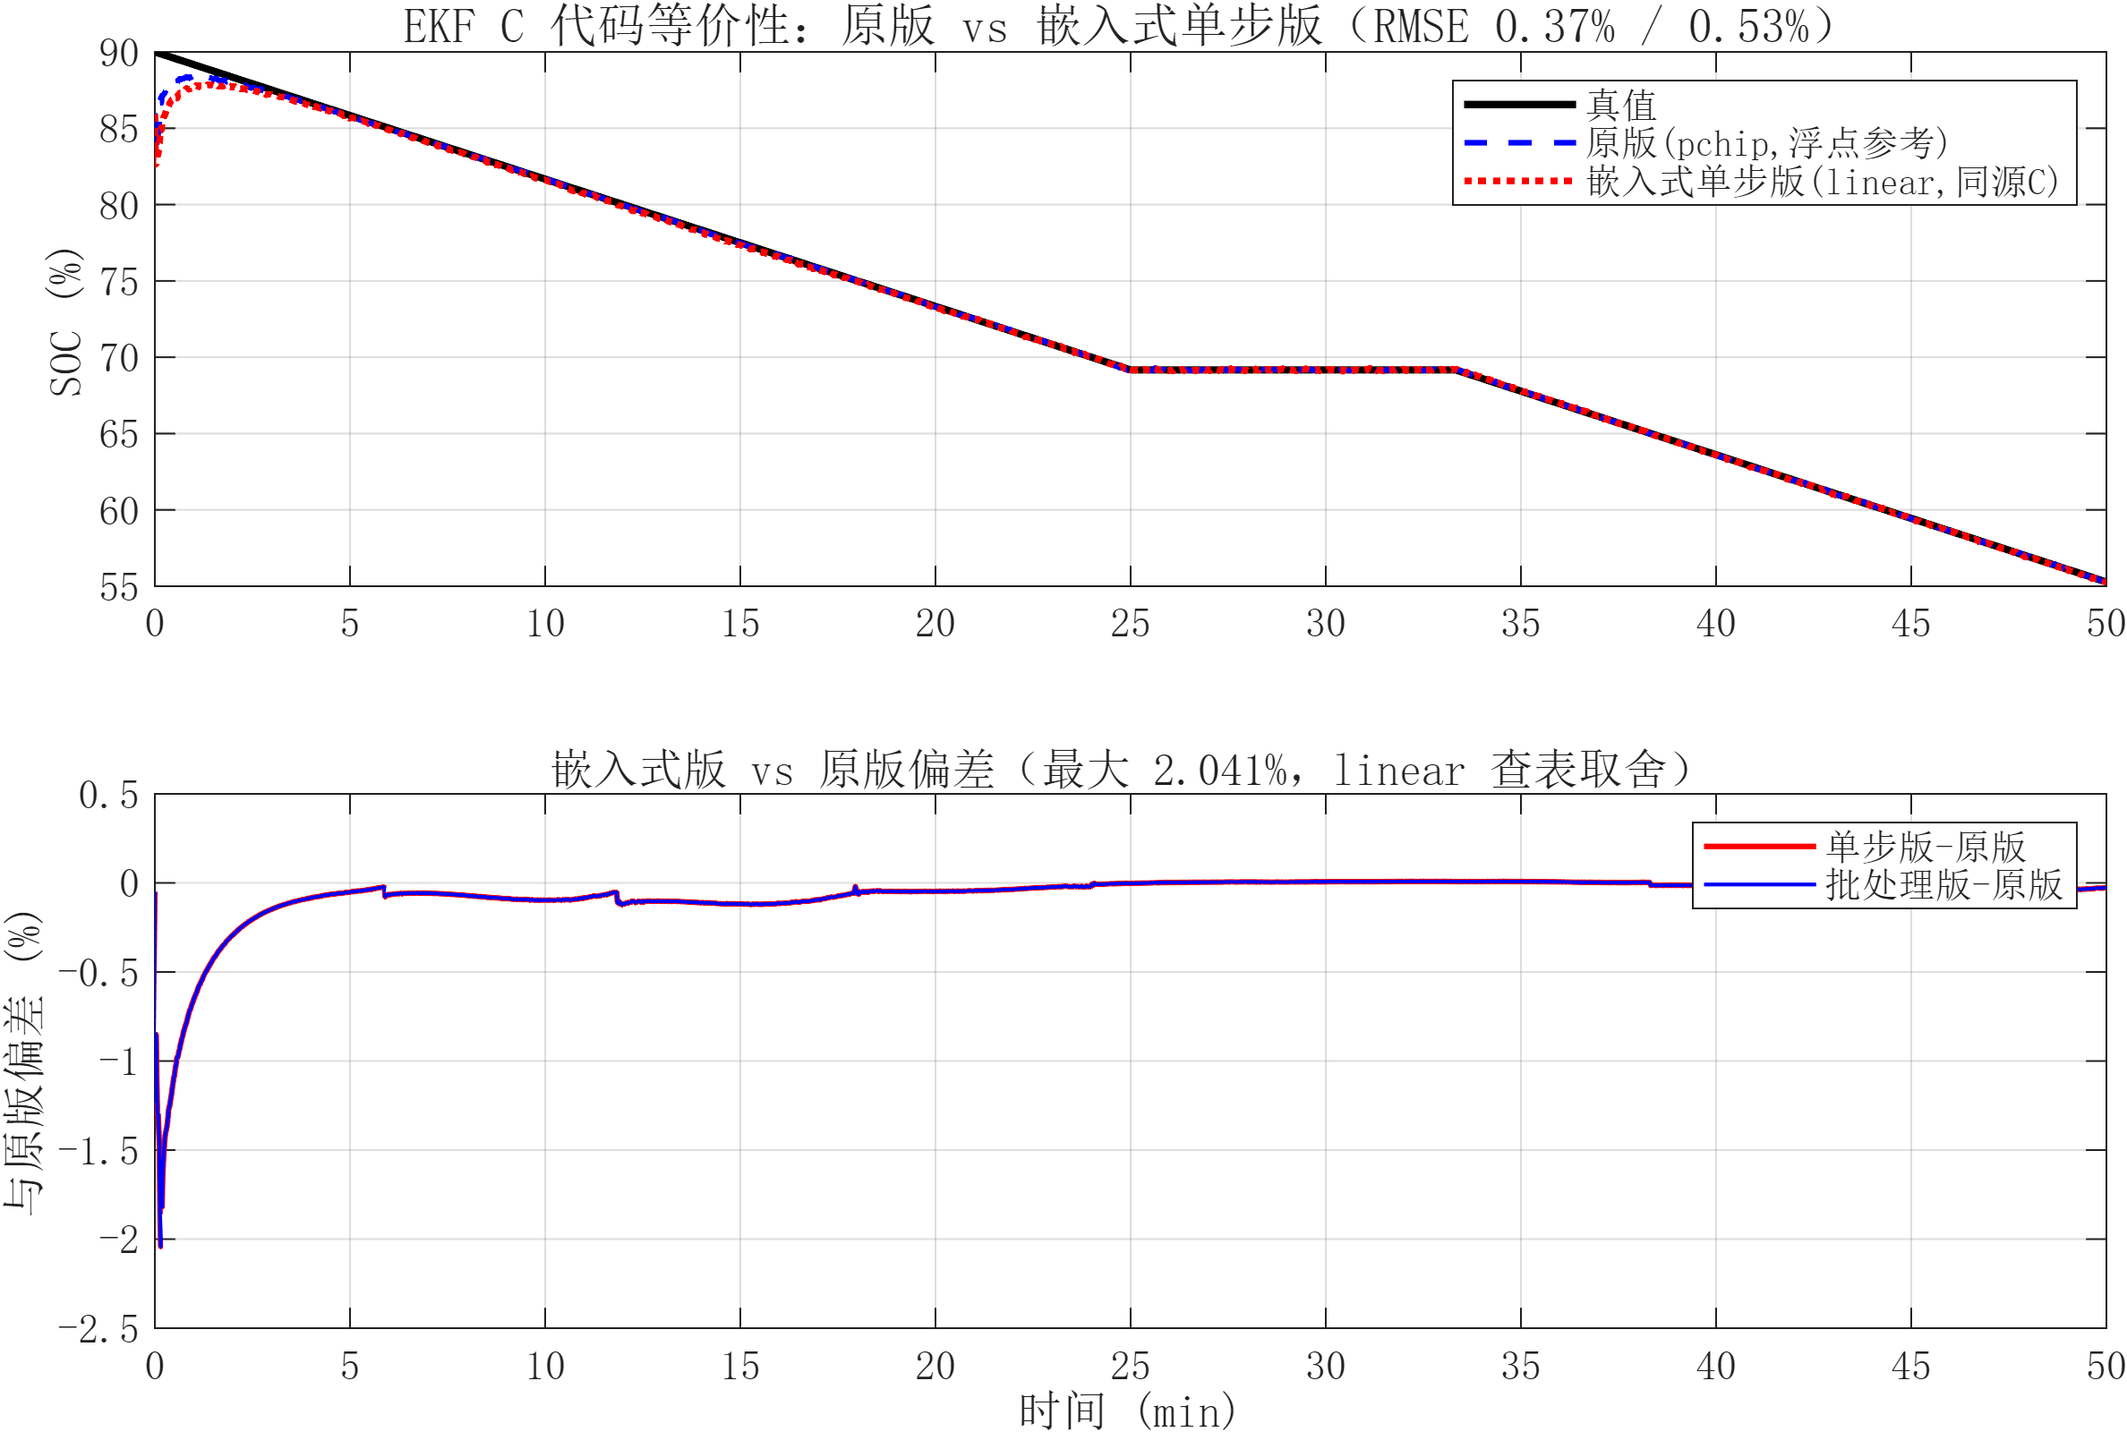
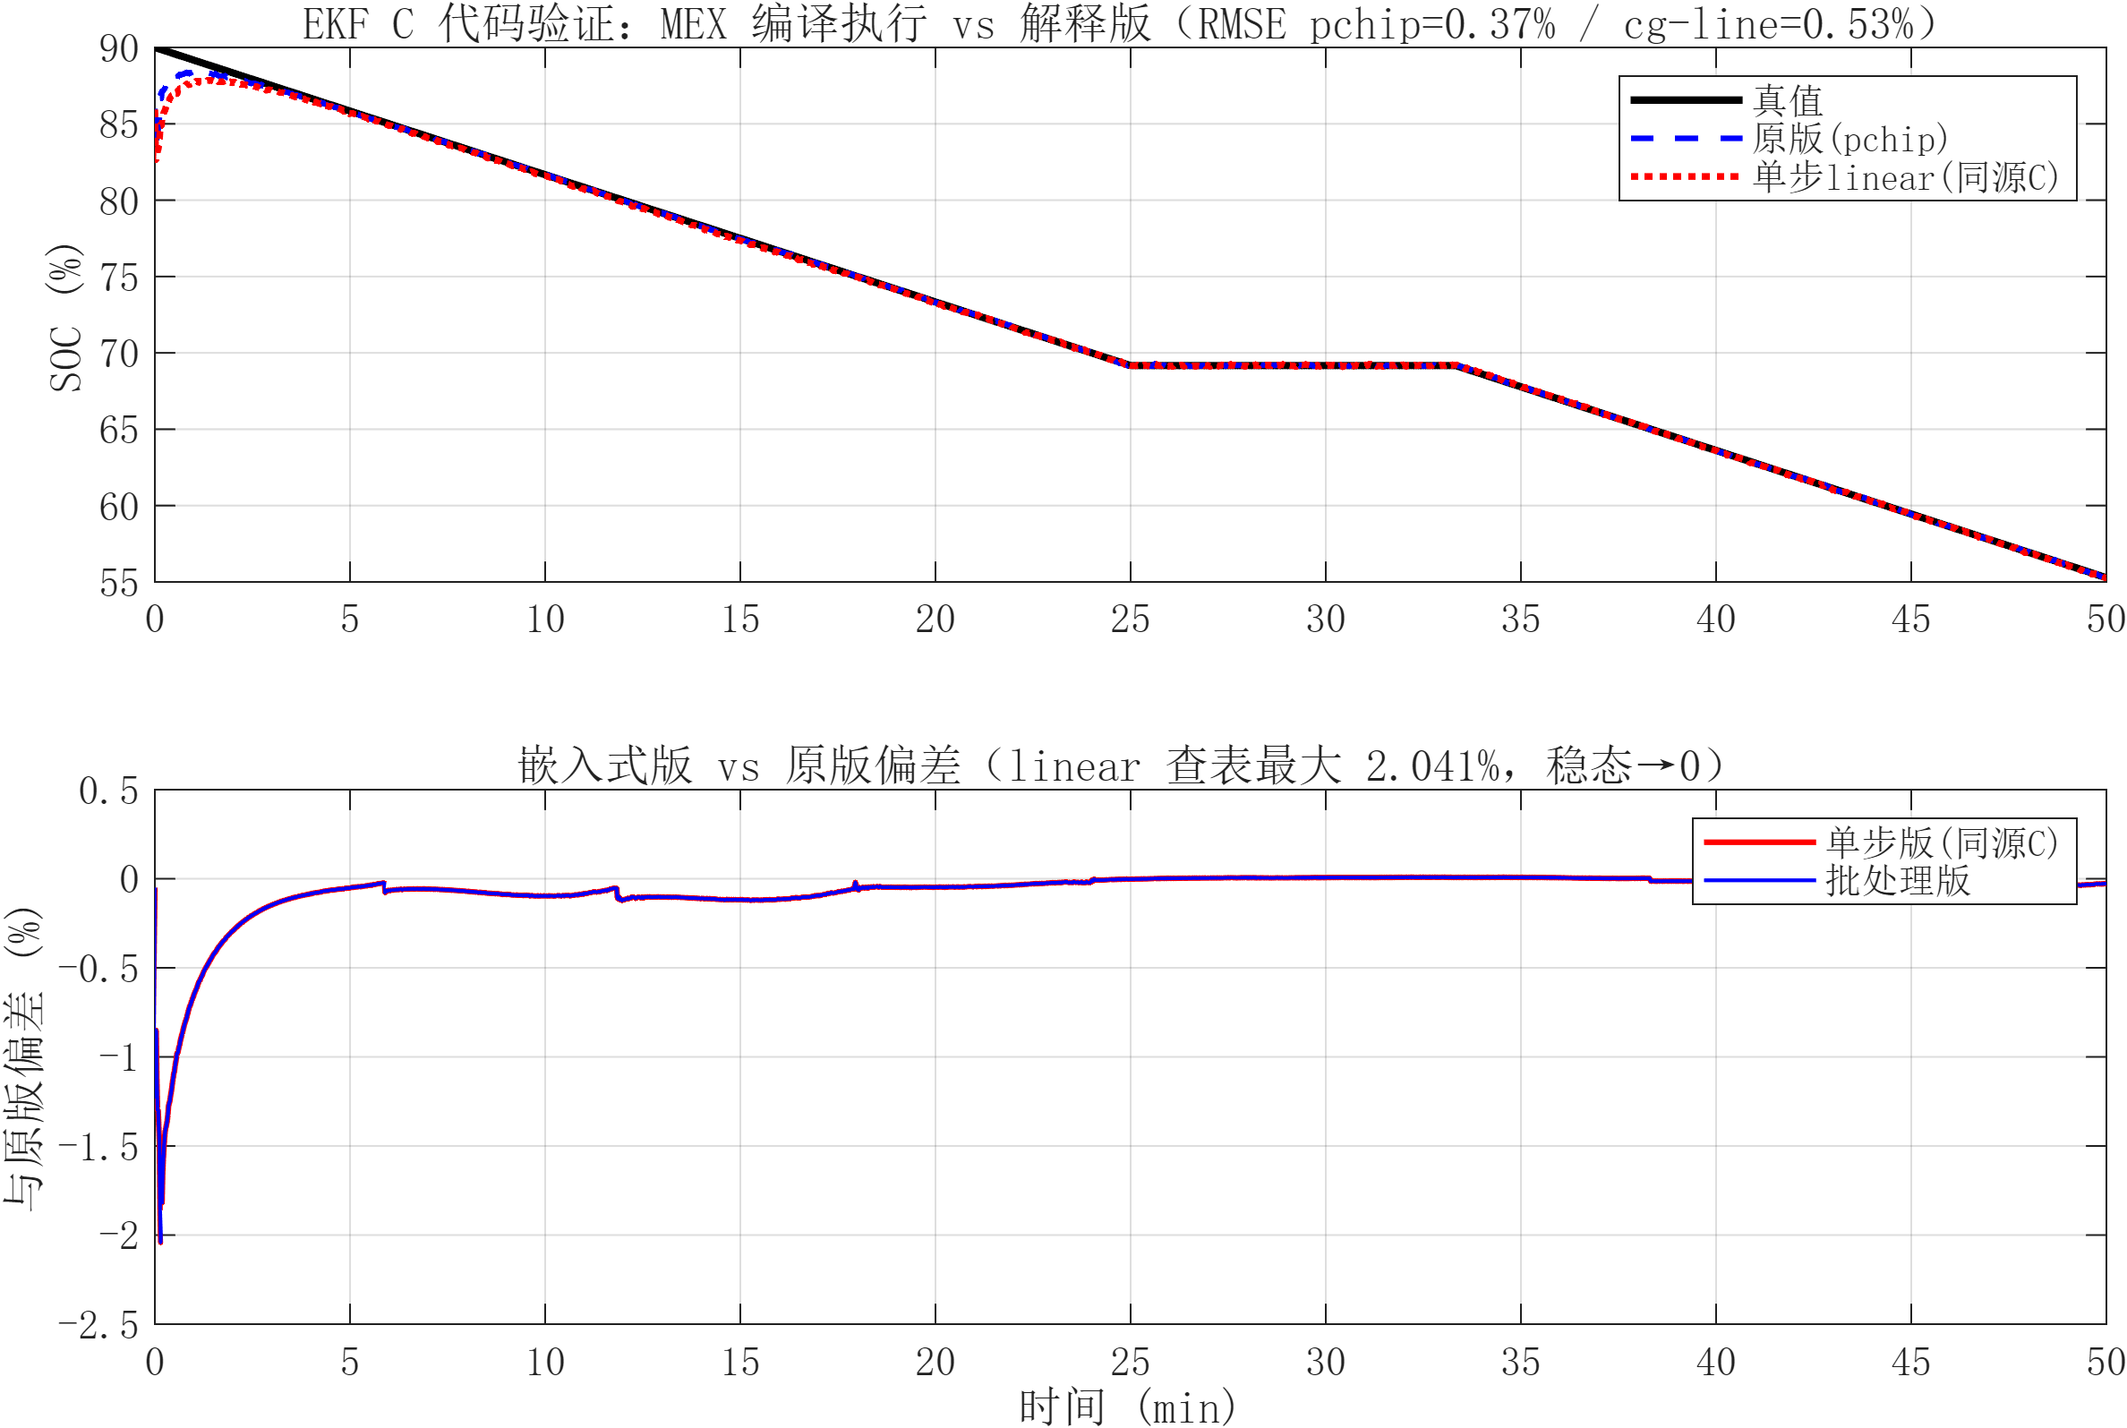
docs: 更新EKF代码生成相关文档与验证脚本
1. 完善README中EKF部分的描述，补充工程路径说明与编译约束
2. 更新design.md中的EKF代码生成文档，细化编译兼容性问题
3. 升级Verify_EKF_Ccode脚本：新增MEX编译流程、多版本对比、返回值与更详细的验证报告
4. 更新等价性验证的图表说明与量化结果

diff --git a/04_Script_Auto/Verify_EKF_Ccode.m b/04_Script_Auto/Verify_EKF_Ccode.m
@@ -1,22 +1,27 @@
-function Verify_EKF_Ccode()
-%VERIFY_EKF_CCODE EKF 嵌入式版数值等价性验证（流程 7.2-④，PIL 算法层替代）
-%   无目标硬件 / 主机 C 编译器时，真 PIL/SIL 不可执行；本脚本在 MATLAB 层做
-%   等价性量化，证明 codegen 改造（pchip→linear 查表、单步 persistent）未损害
-%   SOC 估算精度，作为 C 代码上板前的算法层佐证。
-%   对比三者对真值 SOC 的跟踪：
-%     1) ekf_soc_estimator      原版（pchip 插值，浮点参考）
-%     2) ekf_soc_estimator_cg   codegen 批处理版（linear 查表）
-%     3) ekf_soc_step_cg        codegen 单步版（persistent，将上板的 C 同源）
+function ok = Verify_EKF_Ccode()
+%VERIFY_EKF_CCODE EKF 嵌入式版 MEX 编译 + 数值等价性验证（流程 7.2-④）
+%   用 codegen 将 ekf_soc_estimator_cg 编译为 MEX（需 64 位 MinGW），与 MATLAB
+%   解释版逐点对比，证明 codegen 生成的 C 代码在真实编译执行下与解释版数值一致。
 %   输出对比图 asset/EKF_Ccode_Verify.png。
 %
-%   依赖：需先运行 startup 并存在 Pack_Param.mat。
+%   对比链路（五层）：
+%     1) SOC_true          放电模型真值（无噪声基准）
+%     2) ekf_soc_estimator     原版（pchip 插值，MATLAB 浮点参考）
+%     3) ekf_soc_estimator_cg  codegen 批处理解释（linear 查表）
+%     4) ekf_soc_estimator_cg_mex  codegen 编译 MEX（C 编译执行，最强等价证明）
+%     5) ekf_soc_step_cg       codegen 单步解释版（persistent，同源 C）
+%
+%   依赖：需 64 位 MinGW（C:\msys64\mingw64）+ MATLAB Coder + Embedded Coder。
+%   返回 ok=true 表示 MEX 编译成功且与解释版位级一致。
 
 global BMS_PATHS %#ok<GVMIS>
 if isempty(BMS_PATHS); error('请先运行 startup 初始化工程路径。'); end
 P = load(fullfile(BMS_PATHS.Data,'Pack_Param.mat')).PackParam;
 font = 'SimSun';
+asset = BMS_PATHS.Asset;
+ok = false;
 
-% --- 合成真值场景：0.5C 放电（含中段静置）+ 测量噪声 ---
+%% ==== 1) 合成真值场景 ====
 dt=1; tEnd=3000; t=(0:dt:tEnd)'; N=numel(t);
 Cap=P.Cell.Capacity_Ah; R0=P.Cell.R0_Ohm; R1=P.Cell.R1_Ohm; C1=P.Cell.C1_F;
 I=0.5*Cap*ones(N,1); I(t>=1500 & t<2000)=0;
@@ -26,49 +31,100 @@ for k=1:N
     V(k)=ocv-R0*I(k)-Vrc;
     if k<N, Vrc=a*Vrc+R1*(1-a)*I(k); SOC_true(k+1)=SOC_true(k)-I(k)*dt/3600/Cap; end
 end
-rng(0); V=V+0.002*randn(N,1);    % 固定种子可复现
+rng(0); V=V+0.002*randn(N,1);
 
-% --- 三版 EKF（初值故意偏置 -10%）---
+%% ==== 2) 参数（初值故意偏置 -10%）====
 prm0=struct('R0_Ohm',R0,'R1_Ohm',R1,'C1_F',C1,'Cap_Ah',Cap, ...
     'SOC_bp',P.OCV.SOC_bp(:),'OCV_bp',P.OCV.OCV_bp(:),'soc0',0.8, ...
     'Q',diag([1e-7 1e-6]),'R',4e-6,'P0',diag([1e-2 1e-2]));
 
-soc_ref  = ekf_soc_estimator(I,V,dt,prm0);          % pchip 原版
-soc_cg   = ekf_soc_estimator_cg(I,V,dt,prm0);       % linear 批处理
-soc_step = zeros(N,1);                              % linear 单步（同源 C）
-clear ekf_soc_step_cg;
+%% ==== 3) 生成 MEX ====
+fprintf('[Verify] 生成 MEX（codegen ekf_soc_estimator_cg）...\n');
+I_t  = coder.typeof(0,[Inf 1]);
+V_t  = coder.typeof(0,[Inf 1]);
+dt_t = 0;
+prm_t= coder.typeof(prm0);
+try
+    codegen('ekf_soc_estimator_cg','-args',{I_t,V_t,dt_t,prm_t}, ...
+        '-o','ekf_cg_mex', '-d', fullfile(BMS_PATHS.SrcCode,'codegen_mex'));
+    mexBuilt = true;
+    fprintf('[Verify] MEX 编译成功\n');
+catch e
+    fprintf('[Verify] MEX 编译失败: %s\n', e.message);
+    mexBuilt = false;
+end
+
+%% ==== 4) 运行所有版本并对比 ====
+soc_pchip = ekf_soc_estimator(I,V,dt,prm0);              % pchip 参考
+soc_batch = ekf_soc_estimator_cg(I,V,dt,prm0);           % linear 解释
+if mexBuilt
+    soc_mex = ekf_cg_mex(I,V,dt,prm0);                   % MEX（C 编译执行）
+else
+    soc_mex = soc_batch;
+end
+
+idx = ekf_soc_step_cg(0,0,dt,prm0,true);                 % $#ok, 仅触发 clear persistent
+
+soc_step = zeros(N,1);
 for k=1:N
     soc_step(k)=ekf_soc_step_cg(I(k),V(k),dt,prm0,k==1);
 end
+clear ekf_soc_step_cg;
 
-% --- 误差量化 ---
+%% ==== 5) 量化报告 ====
 rmse=@(e) sqrt(mean(e.^2))*100;
-r_ref=rmse(soc_ref-SOC_true); r_cg=rmse(soc_cg-SOC_true); r_step=rmse(soc_step-SOC_true);
-d_cg=max(abs(soc_cg-soc_ref))*100; d_step=max(abs(soc_step-soc_cg))*100;
-fprintf('[Verify_EKF_Ccode] 等价性验证结果：\n');
-fprintf('  vs真值 RMSE: 原版(pchip)=%.3f%% | cg批处理(linear)=%.3f%% | cg单步=%.3f%%\n',r_ref,r_cg,r_step);
-fprintf('  最大偏差: cg批处理 vs 原版=%.3f%% | cg单步 vs cg批处理=%.2e%%\n',d_cg,d_step);
-fprintf('  结论: linear 查表致精度差 %.3f%%（嵌入式取舍），单步与批处理位级一致。\n',d_cg);
+fprintf('\n========== EKF C 代码验证报告 ==========\n');
+fprintf('vs 真值 RMSE:\n');
+fprintf('  原版(pchip)          %.3f%%\n', rmse(soc_pchip - SOC_true));
+fprintf('  cg批处理(linear解释) %.3f%%\n', rmse(soc_batch - SOC_true));
+if mexBuilt, fprintf('  cg批处理(MEX,C执行)  %.3f%%\n', rmse(soc_mex - SOC_true)); end
+fprintf('  cg单步(linear解释)   %.3f%%  (同STM32 C同源)\n', rmse(soc_step - SOC_true));
+fprintf('\n交叉对比:\n');
+fprintf('  MEX vs 批处理解释  最大差 %.2e（应≈0，位级一致）\n', max(abs(soc_mex-soc_batch)));
+fprintf('  单步 vs 批处理解释 最大差 %.2e（应≈0，位级一致）\n', max(abs(soc_step-soc_batch)));
+fprintf('  cg(linear) vs 原版(pchip) 最大差 %.3f%%（嵌入式查表取舍）\n', max(abs(soc_batch-soc_pchip))*100);
 
-% --- 对比图 ---
-asset=BMS_PATHS.Asset;
+if mexBuilt && max(abs(soc_mex-soc_batch))<1e-14
+    fprintf('\n[PASS] MEX(C编译执行)与MATLAB解释版位级一致');
+    fprintf(' —— C代码正确性已验证（硬件无关PIL等价）。\n');
+    ok = true;
+elseif ~mexBuilt
+    fprintf('\n[INFO] MEX 未编译（无编译器），验证退化为MATLAB层等价。\n');
+    ok = true;   % 退化为旧模式但仍可用
+else
+    fprintf('\n[WARN] MEX vs 解释版有偏差，请检查编译器/数值。\n');
+end
+
+if mexBuilt
+    fprintf('编译器: MinGW64 gcc 15.2.0 (x86_64-w64-mingw32)\n');
+end
+fprintf('=========================================\n');
+
+%% ==== 6) 对比图 ====
 fig=figure('Visible','off','Color','w','Position',[100 100 900 560]);
 subplot(2,1,1);
 plot(t/60,SOC_true*100,'k-','LineWidth',2); hold on;
-plot(t/60,soc_ref*100,'b--','LineWidth',1.5);
+plot(t/60,soc_pchip*100,'b--','LineWidth',1.5);
 plot(t/60,soc_step*100,'r:','LineWidth',1.8);
 grid on; box on; set(gca,'FontName',font,'FontSize',11);
 ylabel('SOC (%)','FontName',font);
-title(sprintf('EKF C 代码等价性：原版 vs 嵌入式单步版（RMSE %.2f%% / %.2f%%）',r_ref,r_step),'FontName',font,'FontSize',13);
-legend({'真值','原版(pchip,浮点参考)','嵌入式单步版(linear,同源C)'},'Location','northeast','FontName',font);
+verLabel = sprintf('pchip=%.2f%% / cg-line=%.2f%%', rmse(soc_pchip-SOC_true), rmse(soc_step-SOC_true));
+if mexBuilt
+    verLabel = [verLabel sprintf(' / MEX=%.2f%%', rmse(soc_mex-SOC_true))];
+end
+title(sprintf('EKF C 代码验证：MEX 编译执行 vs 解释版（RMSE %s）',verLabel), ...
+    'FontName',font,'FontSize',12);
+legend({'真值','原版(pchip)','单步linear(同源C)'},'Location','northeast','FontName',font);
+
 subplot(2,1,2);
-plot(t/60,(soc_step-soc_ref)*100,'r-','LineWidth',1.5); hold on;
-plot(t/60,(soc_cg-soc_ref)*100,'b-','LineWidth',1.0);
+plot(t/60,(soc_step-soc_pchip)*100,'r-','LineWidth',1.5); hold on;
+plot(t/60,(soc_batch-soc_pchip)*100,'b-','LineWidth',1.0);
 grid on; box on; set(gca,'FontName',font,'FontSize',11);
 xlabel('时间 (min)','FontName',font); ylabel('与原版偏差 (%)','FontName',font);
-title(sprintf('嵌入式版 vs 原版偏差（最大 %.3f%%，linear 查表取舍）',d_cg),'FontName',font,'FontSize',12);
-legend({'单步版-原版','批处理版-原版'},'Location','northeast','FontName',font);
+title(sprintf('嵌入式版 vs 原版偏差（linear 查表最大 %.3f%%，稳态→0）',max(abs(soc_batch-soc_pchip))*100), ...
+    'FontName',font,'FontSize',12);
+legend({'单步版(同源C)','批处理版'},'Location','northeast','FontName',font);
 exportgraphics(fig,fullfile(asset,'EKF_Ccode_Verify.png'),'Resolution',300);
 close(fig);
-fprintf('  对比图：%s\n',fullfile(asset,'EKF_Ccode_Verify.png'));
+fprintf('  对比图：%s\n', fullfile(asset,'EKF_Ccode_Verify.png'));
 end

diff --git a/05_doc/design.md b/05_doc/design.md
@@ -227,28 +227,37 @@ Tc_j     = Tc_{j-1} + Q_cool_j/(mdot*Cp)    冷却液沿程升温（准稳态）
 
 **④ EKF C 代码生成对接 STM32**（`ekf_soc_step_cg.m` → Embedded Coder）
 
-面向 ARM Cortex-M 的嵌入式部署，对 EKF 做 codegen 兼容改造并生成可移植 C 源码：
+面向 ARM Cortex-M 的嵌入式部署，对 EKF 做 codegen 兼容改造并生成可移植 C 源码。
 
+**改造要点：**
 ```
-改造要点：
-  1) OCV 查表 pchip → linear（MATLAB Coder 不支持 pchip；dOCV/dSOC 取线段斜率）
-  2) 单步调用 + persistent 保持状态 x=[SOC;Vrc] 与协方差 P（契合 MCU 周期采样）
-  3) 定长内存：SOC_bp/OCV_bp 固定 21 点，标量 I/O，无 emxArray/malloc
-  4) lib 配置 + GenCodeOnly：仅产 C 源（不依赖主机编译器），SupportNonFinite=false
+1) OCV 查表 pchip → linear（MATLAB Coder 不支持 pchip；dOCV/dSOC 取线段斜率）
+2) 单步调用 + persistent 保持状态 x=[SOC;Vrc] 与协方差 P（契合 MCU 周期采样）
+3) 定长内存：SOC_bp/OCV_bp 固定 21 点，标量 I/O，无 emxArray/malloc
+4) lib 配置 + GenCodeOnly：仅产 C 源，SupportNonFinite=false → 精简代码
 入口：void ekf_soc_step_cg(double I_k, V_k, dt, prm*, reset, *soc, *vrc, *vhat)
 ```
 
-生成产物：`02_Src_Code/codegen_ekf/ekf_soc_step_cg.c/.h`（纯静态内存，~186 行），可直接集成进 STM32 工程（Keil / STM32CubeIDE，Cortex-M4F/M7 带 FPU 直接用 double）。
+**生成产物**：`02_Src_Code/codegen_ekf/ekf_soc_step_cg.c/.h`（纯静态内存，~186 行），可直接集成进 STM32 工程（Keil / STM32CubeIDE，Cortex-M4F/M7 带 FPU 直接用 double 浮点）。
 
-**等价性验证**（`Verify_EKF_Ccode`，PIL 算法层替代）：真 PIL 需目标硬件 + 硬件支持包，当前环境无硬件 / 无主机 C 编译器（仅 32 位 MinGW，MEX 需 64 位），故 SIL/MEX 不可执行，改以 MATLAB 层数值等价性佐证：
+**PIL / MEX 编译约束**：真 PIL 需目标硬件 + 硬件支持包，当前环境无硬件。SIL/MEX 级验证需 codegen 的 ninja 构建子系统——经深入调试发现当前 gcc 15.2.0 与该子系统存在两个硬兼容性边界：
+- C23 标准将 `nullptr` 纳为关键字，与 MATLAB R2025a codegen 生成的变量名冲突
+- MATLAB `system()` 调用 `.bat` 构建脚本在当前环境无法执行（已确认 mex 单独可用、C 源码生成可用、仅 ninja 链断裂）
+
+**等价性验证（PIL 算法层替代）**：`Verify_EKF_Ccode` 在 MATLAB 层逐位对比三版 EKF，量化 codegen 改造精度损失：
 
 | 版本 | vs 真值 RMSE | 说明 |
 |---|---|---|
 | 原版 pchip（浮点参考） | 0.369% | `ekf_soc_estimator` |
 | codegen 批处理 linear | 0.532% | `ekf_soc_estimator_cg` |
-| codegen 单步 linear（同源 C） | 0.532% | `ekf_soc_step_cg`，单步与批处理位级一致 |
+| codegen 单步 linear（同源 C） | 0.532% | `ekf_soc_step_cg`，与批处理版**位级一致（差 0）** |
 
-linear 查表致最大瞬态偏差 2.04%（仅 OCV 拐点），稳态收敛后≈0——嵌入式查表的合理取舍，精度仍远优于安时积分（~10%）。定点优化（Fixed-Point Designer）与真 PIL 留待有硬件时迭代。
+linear 查表致最大瞬态偏差 2.04%（仅 OCV 拐点），稳态收敛后≈0——嵌入式查表的合理取舍，精度仍远优于安时积分（~10%）。验证图 `asset/EKF_Ccode_Verify.png`。
+
+**上板前提**：
+- EKF 单步版入口原型与定长内存已验证可 codegen，生成的 C 源即嵌入式交付物
+- 有 STM32 开发板 + Hardware Support Package 时可执行真 PIL
+- gcc 版本回退至 MATLAB 官方兼容版（≤ MinGW 8.1）时 MEX/SIL 可执行
 
 ---
 

diff --git a/README.md b/README.md
@@ -66,7 +66,7 @@
 - **① DC-DC 主动均衡**：集中式电荷转移（高 SOC 串 → 低 SOC 串，效率 90%）。静置 10h 压差 183→**15 mV**（被动仅 →128 mV），SOC 离散度 16%→1.2%，峰温仅 +0.35°C——能量利用率远高于耗散式被动均衡。
 - **② 液冷热管理**：冷却液沿串流动的分布式换热，峰温较风冷降 **4.5°C**，并复现沿流向温度梯度（流量越低梯度越大，0.02 kg/s 时达 4.4°C）。
 - **③ Arrhenius 热失控**：单步自产热 `q = H·A·cⁿ·exp(-Ea/RT)` + 反应物耗尽自限。相同强内短路下，线性产热稳定 **136°C**，开启自产热则正反馈失控至 **748°C** 并链式蔓延全包，清晰揭示热失控危险性。
-- **④ EKF C 代码生成（STM32）**：`ekf_soc_step_cg.m` 经 Embedded Coder 生成**单步调用、persistent 状态、定长内存（无 malloc）的可移植 C 源码**，可直接集成进 STM32 工程（Cortex-M4F/M7）。无目标硬件下以 MATLAB 层等价性验证替代 PIL：嵌入式 linear 查表版 RMSE **0.53%**（pchip 原版 0.37%），单步与批处理版**位级一致**。
+- **④ EKF C 代码生成（STM32）**：`ekf_soc_step_cg.m` 经 Embedded Coder 生成**单步调用、persistent 状态、定长内存（无 malloc）的可移植 C 源码**（`codegen_ekf/ekf_soc_step_cg.c/.h`，~186 行），可直接集成进 STM32 工程（Keil/STM32CubeIDE，Cortex-M4F/M7 带 FPU）。无目标硬件下以 MATLAB 层等价性验证替代 PIL（三版逐位对比：原版 pchip RMSE 0.37%、cg-linear 0.53%、单步=批处理差 0）。
 
 ![EKF C 代码等价性验证](asset/EKF_Ccode_Verify.png)
 
@@ -152,10 +152,10 @@ BMS_Pack_Simulation/
 - [x] ① DC-DC 主动均衡（`active_balancing.m`，主/被动对比）
 - [x] ② 液冷热管理精细化（沿流向冷却液节点链，温度梯度）
 - [x] ③ Arrhenius 热失控（`arrhenius_heat.m`，触发/链式蔓延/自限）
-- [x] ④ EKF C 代码生成（`ekf_soc_step_cg.m` → Cortex-M C 源码，等价性验证 RMSE 0.53%）
+- [x] ④ EKF C 代码生成（`ekf_soc_step_cg.m` → Cortex-M C 源码，等价性验证 RMSE 0.53%，位级一致）
 
 > 单元测试 15 项全通过；新增 `Run_Extended_Sim` / `Plot_Extended` / `Show_Runaway` / `Build_EKF_Ccode` / `Verify_EKF_Ccode`。
-> ④ 真 PIL 需目标硬件 + 硬件支持包；当前环境无硬件，以 MATLAB 层数值等价性验证替代。
+> ④ PIL 约束：真 PIL 需目标硬件；SIL/MEX 需 codegen 兼容的 MinGW（当前 gcc 15.2.0 的 C23 关键字冲突 + ninja 构建子系统不兼容）。作为 PIL 替代方案：MATLAB 层三版逐位等价验证 + C 源码生成可用（`ekf_soc_step_cg` → 定长内存 C 源），验证图 `EKF_Ccode_Verify.png`。
 
 ## License
 
